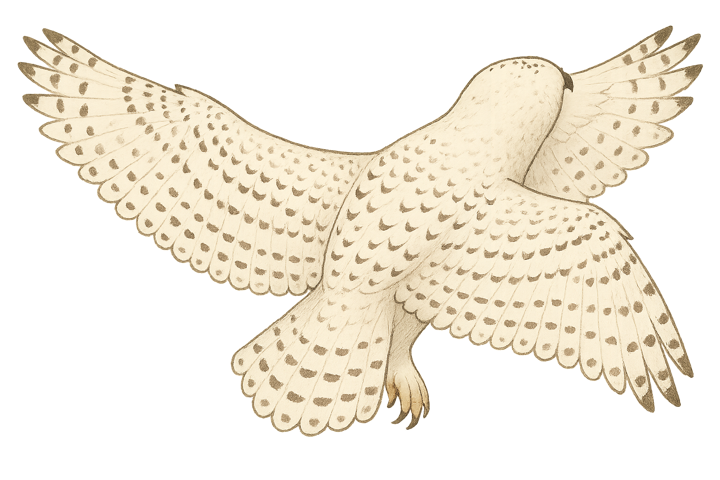
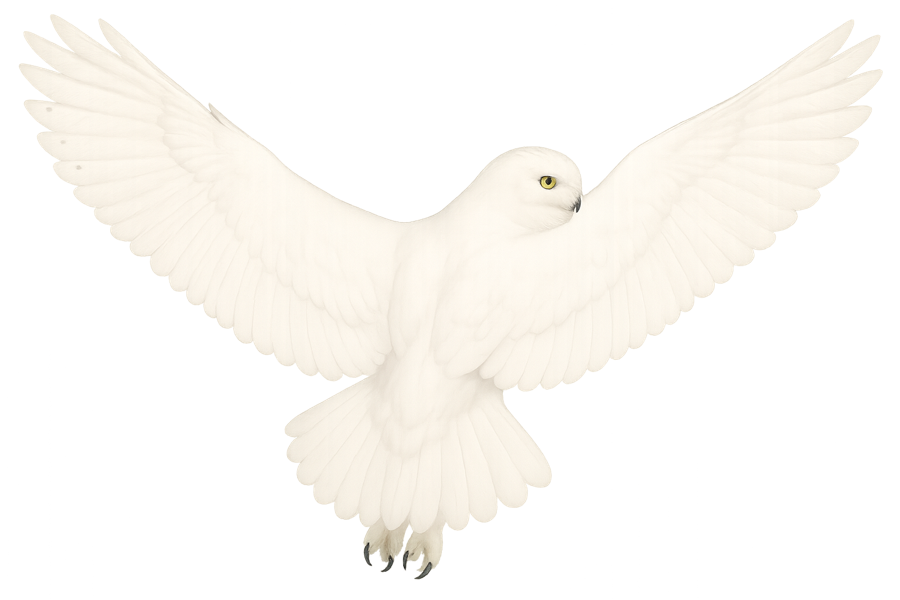
Real dart finale, parchment carried by the folds, and a dramatic Hedwig
The plane sequence now ends with a photoreal folded paper dart that the
folded sliver snaps open into, replacing the CSS facet approximation.

The Hogwarts parchment is now the back of the paper: both fold flaps
carry the aged mottled parchment and the top flap carries the V creases,
crest, and hand-written line, so the envelope back is assembled by the
folding itself with nothing fading in. Only the wax seal arrives after,
as sealing does. Hedwig is regenerated nearly pure white like the real
one, rendered semi-photorealistic, and sweeps far larger and closer
across the viewport.

diff --git a/papertelegram.com/app/globals.css b/papertelegram.com/app/globals.css
@@ -884,39 +884,27 @@ textarea::placeholder { color: rgba(21, 49, 90, 0.4); }
   will-change: transform, filter;
 }
 
-/* The finished plane leans like the logo: a shorter far wing behind,
-   a longer near wing toward the viewer, and a slim keel below. */
-.plane-final { transform: rotate(-9deg); }
-
-/* Far wing, in shade behind the spine. */
-.plane-wing-far {
-  clip-path: polygon(50% 3%, 20% 74%, 50% 62%);
-  background: linear-gradient(160deg, #e9e2d0 0%, #d8cfb8 100%);
-  filter: drop-shadow(-2px 3px 4px rgba(4, 12, 26, 0.3));
+/* The finished plane is a real folded dart, revealed as the folded
+   sliver's wings snap open. It starts nose-up to match the sliver, and
+   the launch banks it to flight attitude. */
+.plane-final img {
+  position: absolute;
+  left: 50%;
+  top: 45%;
+  width: 92%;
+  transform: translate(-50%, -50%) rotate(105deg);
+  filter: drop-shadow(0 18px 30px rgba(4, 12, 26, 0.5));
 }
 
-/* Body keel hanging under the wings. */
-.plane-keel {
-  clip-path: polygon(50% 10%, 61% 98%, 50% 84%);
-  background: linear-gradient(120deg, #efe8d6 0%, #e0d7c0 100%);
-  filter: drop-shadow(2px 4px 5px rgba(4, 12, 26, 0.35));
+[data-concept="plane"][data-step="6"] .plane-final img {
+  animation: wing-open 0.5s cubic-bezier(0.4, 0.05, 0.3, 1.1) forwards;
 }
 
-/* Near wing drops open toward the viewer. */
-.plane-wing-near {
-  clip-path: polygon(50% 0, 91% 86%, 50% 68%);
-  background: linear-gradient(120deg, #ffffff 0%, #f6f0e2 60%, #ece5d3 100%);
-  transform-origin: 50% 34%;
-  transform: rotate3d(0.16, 1, 0, -84deg);
-}
-[data-concept="plane"][data-step="6"] .plane-wing-near {
-  animation: wing-drop 0.45s cubic-bezier(0.5, 0.05, 0.3, 1.15) forwards;
-}
-
-@keyframes wing-drop {
-  0% { transform: rotate3d(0.16, 1, 0, -84deg); filter: brightness(0.85) drop-shadow(0 0 0 rgba(4, 12, 26, 0)); }
-  55% { transform: rotate3d(0.16, 1, 0, -38deg); filter: brightness(0.92) drop-shadow(-12px 10px 16px rgba(4, 12, 26, 0.45)); }
-  100% { transform: rotate3d(0.16, 1, 0, 0deg); filter: brightness(1) drop-shadow(-3px 4px 5px rgba(4, 12, 26, 0.3)); }
+@keyframes wing-open {
+  0% { transform: translate(-50%, -50%) scale(0.3, 0.92) rotate(105deg); opacity: 0.6; }
+  35% { opacity: 1; }
+  70% { transform: translate(-50%, -50%) scale(1.06, 1) rotate(105deg); }
+  100% { transform: translate(-50%, -50%) scale(1, 1) rotate(105deg); }
 }
 
 /* Launch: the finished paper plane banks to the logo's flight attitude
@@ -1074,27 +1062,32 @@ textarea::placeholder { color: rgba(21, 49, 90, 0.4); }
   transform: rotate(-4deg);
 }
 
-/* Hogwarts: the back of an aged parchment envelope, like the real one.
-   Mottled paper, the V flaps meeting at a point, a small printed crest,
-   and the wax seal pressed at the point of the V. */
-.env-face.hogwarts {
+/* Hogwarts: the parchment IS the back of the paper. Both fold flaps
+   carry the aged mottled parchment, and the top flap carries the V
+   creases, the crest, and the hand-written line, so the envelope back
+   is assembled by the folding itself. Only the wax seal arrives after,
+   because sealing is its own step in real life too. */
+[data-concept="hogwarts"] .env-bottom,
+[data-concept="hogwarts"] .env-top {
   background:
-    radial-gradient(ellipse 30% 40% at 20% 30%, rgba(150, 106, 38, 0.12), transparent),
-    radial-gradient(ellipse 26% 36% at 78% 64%, rgba(150, 106, 38, 0.1), transparent),
-    radial-gradient(ellipse 20% 30% at 55% 15%, rgba(150, 106, 38, 0.08), transparent),
+    radial-gradient(ellipse 26% 22% at 22% 44%, rgba(150, 106, 38, 0.13), transparent),
+    radial-gradient(ellipse 22% 18% at 76% 56%, rgba(150, 106, 38, 0.11), transparent),
+    radial-gradient(ellipse 18% 15% at 54% 40%, rgba(150, 106, 38, 0.08), transparent),
     linear-gradient(140deg, #efe0bd, #e6d2a4);
-  box-shadow: inset 0 0 26px rgba(120, 84, 30, 0.28);
 }
 
+[data-concept="hogwarts"] .env-face { opacity: 1; transition: none; background: none; box-shadow: none; }
+
 /* The envelope flaps: side flaps shaded, top flap descending to the
-   seal point at (50%, 64%). */
+   seal point. Drawn on the top flap's back, inside the band region. */
 .env-flap-creases {
   position: absolute;
-  inset: 0;
+  inset: 33% 0 34% 0;
   background:
     linear-gradient(to bottom right, rgba(120, 84, 30, 0.14) 0%, transparent 34%),
     linear-gradient(to bottom left, rgba(120, 84, 30, 0.14) 0%, transparent 34%),
     linear-gradient(to top, rgba(120, 84, 30, 0.1) 0%, transparent 30%);
+  box-shadow: inset 0 0 26px rgba(120, 84, 30, 0.25);
 }
 
 .env-flap-creases::before,
@@ -1120,7 +1113,7 @@ textarea::placeholder { color: rgba(21, 49, 90, 0.4); }
 
 .env-for {
   position: absolute;
-  top: 8px;
+  top: calc(33% + 8px);
   left: 12px;
   margin: 0;
   font-family: var(--serif);
@@ -1133,7 +1126,7 @@ textarea::placeholder { color: rgba(21, 49, 90, 0.4); }
 .env-crest {
   position: absolute;
   left: 50%;
-  top: 26%;
+  top: 41%;
   width: 30px;
   height: 30px;
   transform: translateX(-50%);
@@ -1178,9 +1171,9 @@ textarea::placeholder { color: rgba(21, 49, 90, 0.4); }
   position: absolute;
   left: 50%;
   top: 50%;
-  width: min(120vw, 1100px);
+  width: min(170vw, 1600px);
   transform: translate(-50%, -50%);
-  filter: drop-shadow(0 30px 44px rgba(4, 12, 26, 0.5));
+  filter: drop-shadow(0 34px 52px rgba(4, 12, 26, 0.55));
 }
 
 @keyframes owl-sweep {

diff --git a/papertelegram.com/app/paper-telegram-page.tsx b/papertelegram.com/app/paper-telegram-page.tsx
@@ -113,14 +113,13 @@ export function PaperTelegramPage() {
       at(3150, () => setFlight("flying")); // and off it goes
       at(4250, () => setFlight("gone"));
     } else {
-      at(350, () => setFoldStep(1)); // bottom third folds up
+      at(350, () => setFoldStep(1)); // bottom third folds up, parchment out
       at(1050, () => setFoldStep(2)); // top third folds down over it
       at(1750, () => setFoldStep(3)); // the folded letter settles
-      at(2250, () => setFoldStep(4)); // parchment address appears
-      at(2950, () => setFoldStep(5)); // the wax seal is pressed on
-      at(3650, () => setFoldStep(6)); // an owl swoops in
-      at(4550, () => setFlight("flying")); // and carries it away
-      at(5750, () => setFlight("gone"));
+      at(2350, () => setFoldStep(5)); // the wax seal is pressed on
+      at(3050, () => setFoldStep(6)); // Hedwig sweeps across
+      at(3950, () => setFlight("flying")); // and carries it away
+      at(5150, () => setFlight("gone"));
     }
   }, [clearFlightTimers, concept]);
 
@@ -574,9 +573,8 @@ export function PaperTelegramPage() {
                 <div className="fold-flap flap-r2" />
                 <div className="fold-half" />
                 <div className="plane-final" aria-hidden="true">
-                  <div className="plane-wing-far" />
-                  <div className="plane-keel" />
-                  <div className="plane-wing-near" />
+                  {/* eslint-disable-next-line @next/next/no-img-element */}
+                  <img src="/plane-dart.png" alt="" />
                 </div>
               </div>
             ) : null}
@@ -584,7 +582,16 @@ export function PaperTelegramPage() {
             {(flight === "folding" || flight === "flying") && concept !== "plane" ? (
               <div className="fold-theater" aria-hidden="true">
                 <div className="fold-flap env-bottom" />
-                <div className="fold-flap env-top" />
+                <div className="fold-flap env-top">
+                  {concept === "hogwarts" ? (
+                    <>
+                      <div className="env-flap-creases" />
+                      <p className="env-for">For {recipient || "Vinny & Chase"}</p>
+                      {/* eslint-disable-next-line @next/next/no-img-element */}
+                      <img className="env-crest" src="/logo-plane.png" alt="" />
+                    </>
+                  ) : null}
+                </div>
                 <div className={`env-face${concept === "hogwarts" ? " hogwarts" : ""}`}>
                   {concept === "airmail" ? (
                     <>
@@ -599,14 +606,8 @@ export function PaperTelegramPage() {
                       <span className="env-par-avion">Par Avion</span>
                     </>
                   ) : (
-                    <>
-                      <div className="env-flap-creases" />
-                      <p className="env-for">For {recipient || "Vinny & Chase"}</p>
-                      {/* eslint-disable-next-line @next/next/no-img-element */}
-                      <img className="env-crest" src="/logo-plane.png" alt="" />
-                      {/* eslint-disable-next-line @next/next/no-img-element */}
-                      <img className="wax-seal" src="/wax-seal.png" alt="" />
-                    </>
+                    // eslint-disable-next-line @next/next/no-img-element
+                    <img className="wax-seal" src="/wax-seal.png" alt="" />
                   )}
                 </div>
               </div>
